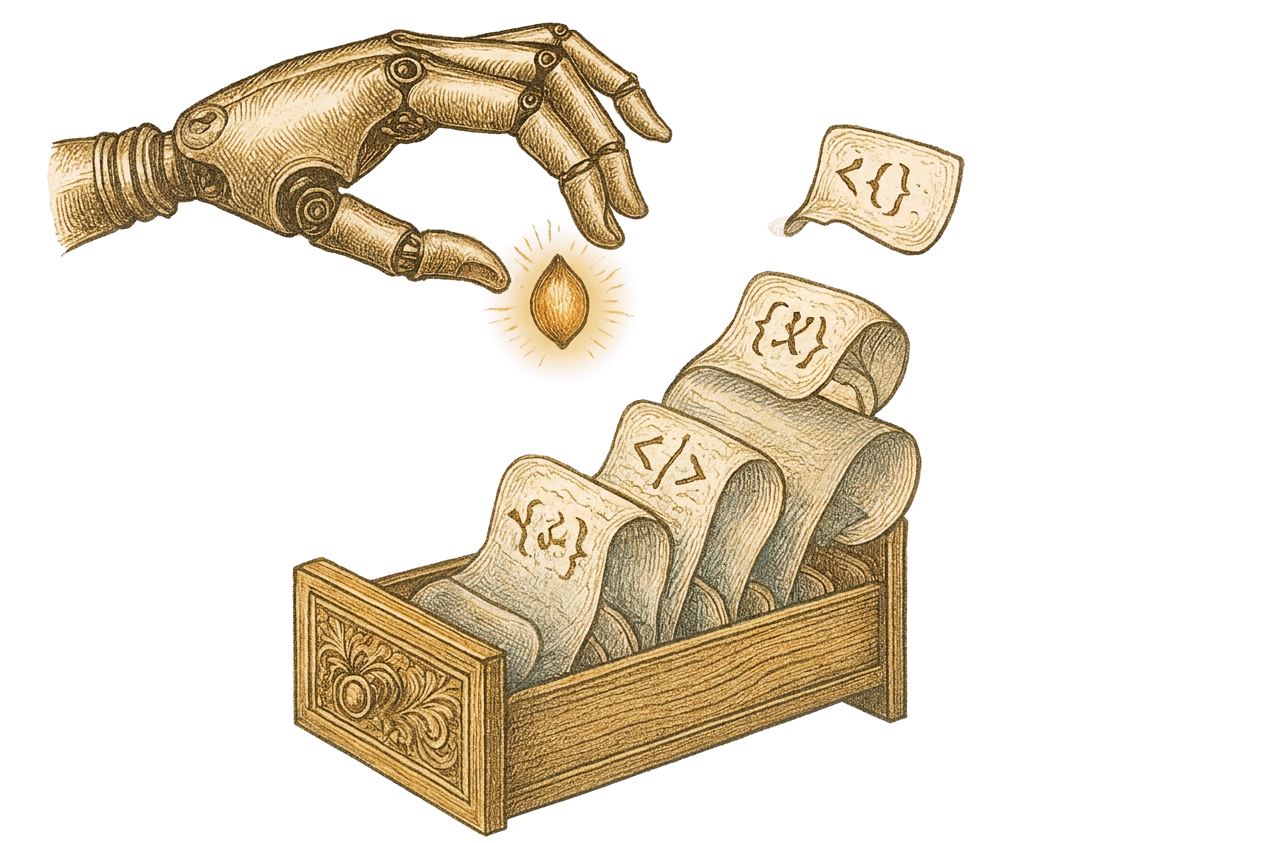
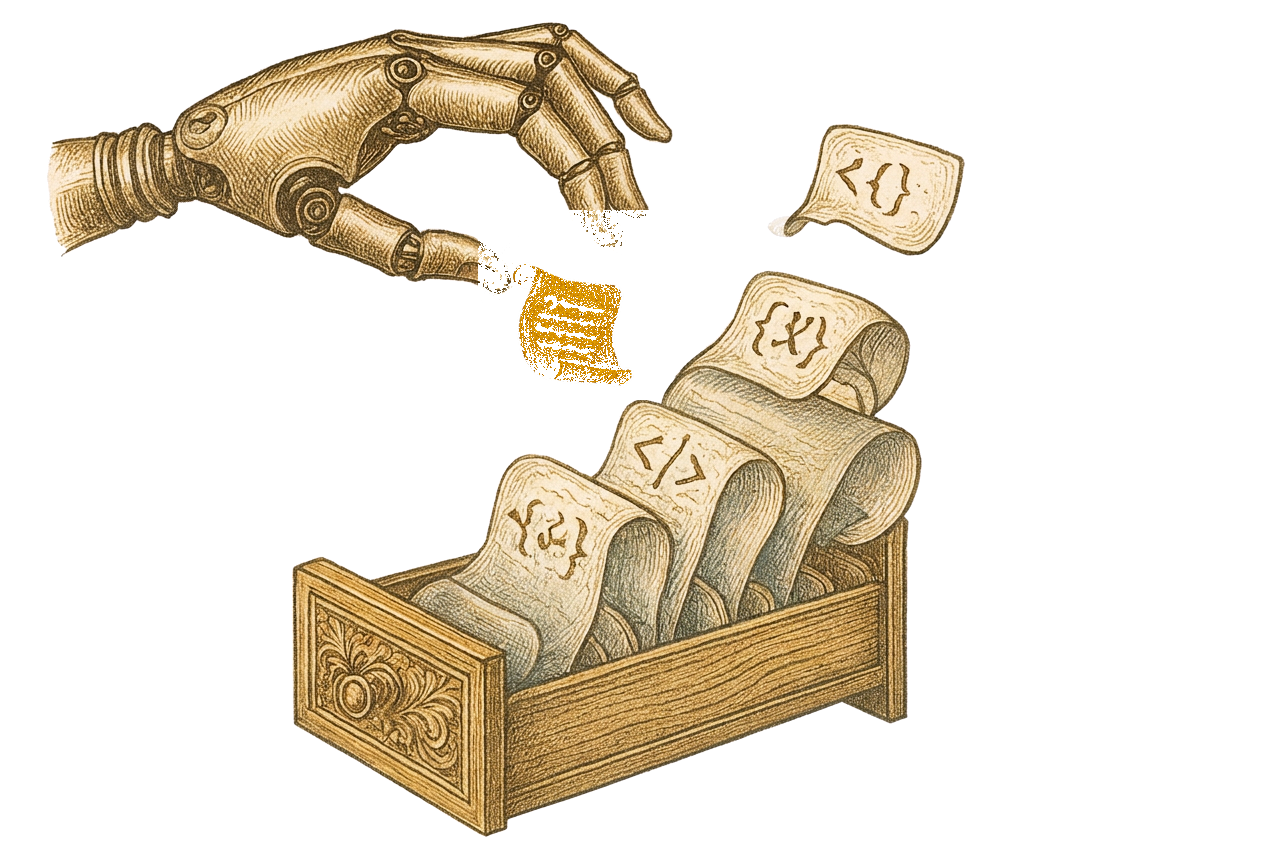
Refine landing layout, footer reveal, and illustrations (#86)

Changed region(s): [[0.3703, 0.2467, 0.5245, 0.4626]]

diff --git a/traits.sh/src/style.css b/traits.sh/src/style.css
@@ -129,7 +129,6 @@ p {
   justify-content: space-between;
   gap: 2rem;
   padding: 1.15rem 3.5%;
-  padding-right: max(2rem, calc((100vw - 1200px) / 2));
   background: light-dark(#f2e9cb, #302535);
   border-bottom: 1px solid light-dark(#e7dcc0, var(--rule));
 }
@@ -164,6 +163,7 @@ p {
 }
 .source-link {
   display: flex;
+  font-size: 0.9rem;
   align-items: center;
   justify-content: center;
   gap: 0.3rem;
@@ -205,6 +205,8 @@ p {
 }
 
 .opening {
+  position: relative;
+  z-index: 1;
   display: grid;
   grid-template-rows: auto 1fr;
   min-height: calc(100svh - var(--contents-height));
@@ -417,6 +419,7 @@ p {
 }
 
 .chapter {
+  z-index: 1;
   --chapter-padding-top: 7rem;
   background: linear-gradient(to bottom, var(--paper), color-mix(in srgb, var(--paper), var(--ink) 5%));
   position: relative;
@@ -1346,7 +1349,21 @@ h3 {
   position: absolute;
   top: 0;
   inset-inline: calc(-1 * var(--instrument-padding));
-  border-top: 1px solid var(--rule);
+  height: 5px;
+  border-block: 1px solid color-mix(in srgb, var(--gold) 45%, var(--paper));
+  background: linear-gradient(90deg, transparent, color-mix(in srgb, var(--gold) 12%, var(--paper)), transparent);
+}
+.instruments article + article::after {
+  content: "";
+  position: absolute;
+  top: 3px;
+  left: 50%;
+  width: 10px;
+  height: 10px;
+  border: 1px solid var(--gold);
+  background: var(--paper);
+  box-shadow: 0 0 0 5px var(--paper);
+  transform: translate(-50%, -50%) rotate(45deg);
 }
 .instrument-graphic {
   display: block;
@@ -1473,18 +1490,74 @@ h3 {
 .practice-list strong {
   font-weight: 700;
 }
+#tools::after {
+  content: "";
+  position: absolute;
+  bottom: 0;
+  inset-inline: 0;
+  height: 1px;
+  background: var(--gold);
+  opacity: 0.25;
+}
 .closing {
+  position: sticky;
+  bottom: var(--dock-height);
+  z-index: 0;
   margin-top: 4rem;
-  padding: 0 1.25rem 4rem;
+  padding: 0 1.25rem 4.25rem;
   text-align: center;
 }
+.closing .hero-emblem {
+  margin-bottom: 0;
+}
+.closing::before {
+  content: "";
+  position: absolute;
+  inset: -5rem 0 0;
+  z-index: -1;
+  background: url("/footer-crosshatch.svg") center / cover no-repeat;
+  opacity: 0.22;
+  pointer-events: none;
+}
 .closing .read-link {
+  margin-top: 1rem;
   font-size: 0.75rem;
   color: var(--muted);
   text-decoration: none;
 }
 .closing .read-link:hover {
   color: var(--ink);
+}
+@supports (animation-timeline: scroll(root block)) {
+  .closing::before,
+  .closing .hero-emblem,
+  .closing .read-link {
+    animation: footer-rise linear both;
+    animation-timeline: scroll(root block);
+    animation-range: calc(100% - 100svh) 100%;
+  }
+  .closing::before {
+    --footer-rise-distance: 2rem;
+  }
+  .closing .hero-emblem,
+  .closing .read-link {
+    --footer-rise-distance: 25rem;
+  }
+}
+@keyframes footer-rise {
+  from {
+    translate: 0 var(--footer-rise-distance);
+  }
+  to {
+    translate: 0 0;
+  }
+}
+@media (prefers-reduced-motion: reduce) {
+  .closing::before,
+  .closing .hero-emblem,
+  .closing .read-link {
+    animation: none;
+  }
 }
 .docked-header {
   height: var(--dock-height);
@@ -1545,7 +1618,6 @@ h3 {
   }
   .masthead {
     padding: 1rem 1.5rem;
-    padding-right: 2rem;
   }
   .masthead nav {
     gap: 0.85rem;
@@ -1581,7 +1653,6 @@ h3 {
   .source-link {
     border-left: 0;
     padding-left: 0;
-    font-size: 0.8rem;
   }
   :root {
     --contents-height: 6rem;
@@ -1623,7 +1694,7 @@ h3 {
   .masthead {
     gap: 0.8rem;
     flex-wrap: wrap;
-    padding-right: 1.25rem;
+    padding-inline: 1.25rem;
   }
   .brand {
     font-size: 1.15rem;

diff --git a/traits.sh/src/App.tsx b/traits.sh/src/App.tsx
@@ -281,7 +281,7 @@ export const App = () => {
                   width="1264"
                   height="843"
                   loading="lazy"
-                  alt="A brass hand preserves a glowing seed of insight above an archive of trait scrolls."
+                  alt="A brass hand releases a small handwritten parchment above an archive of trait scrolls."
                 />
               </article>
               <article>
